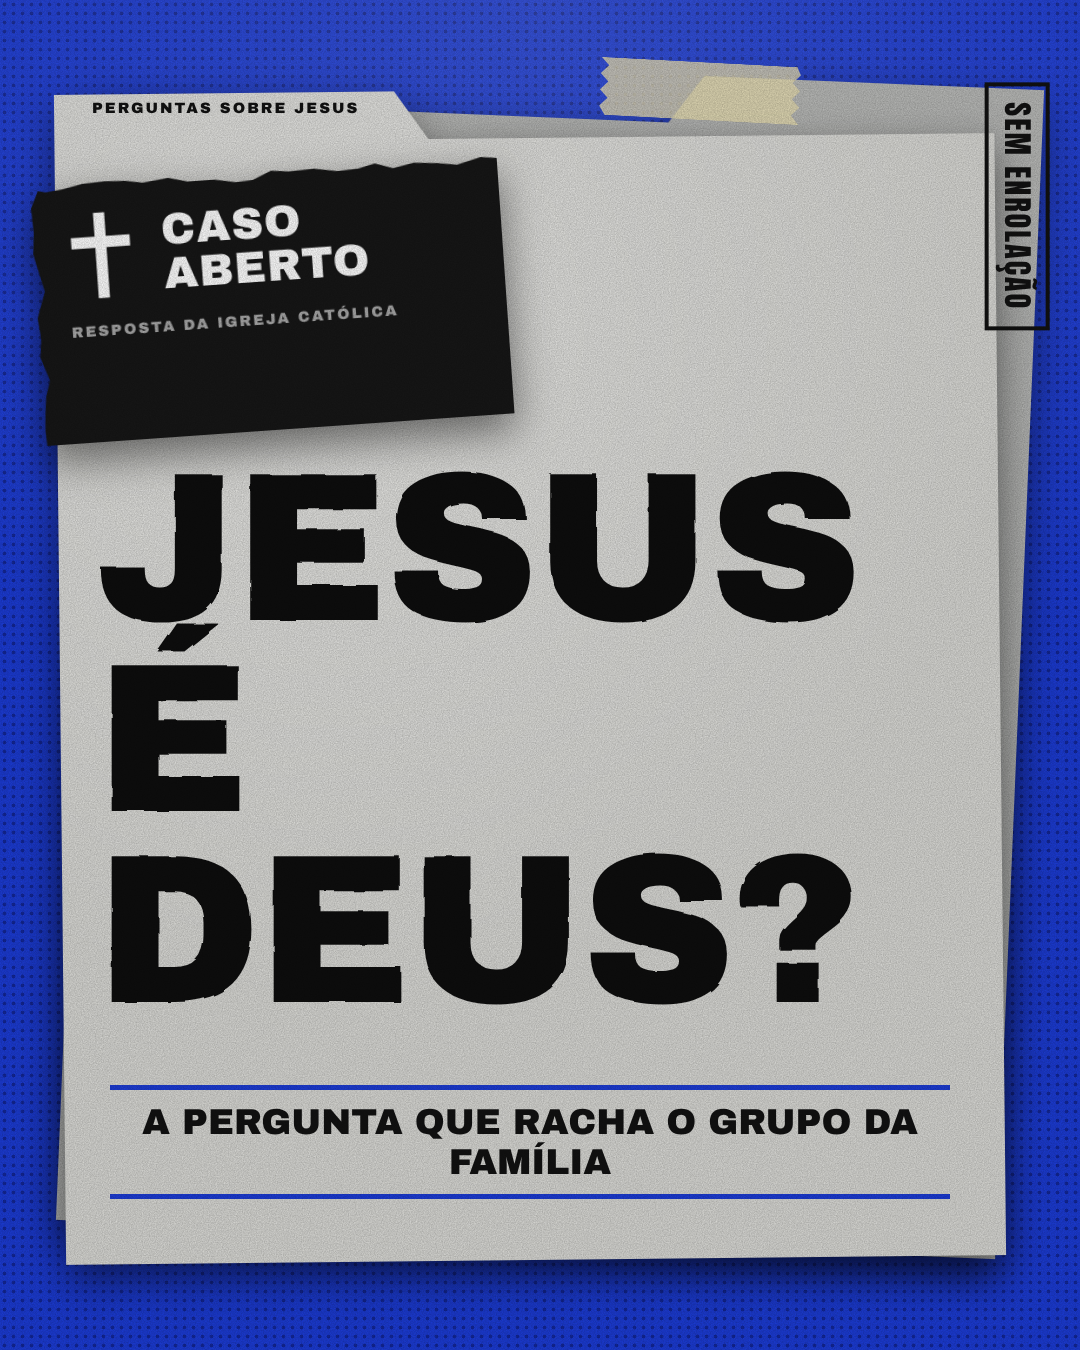
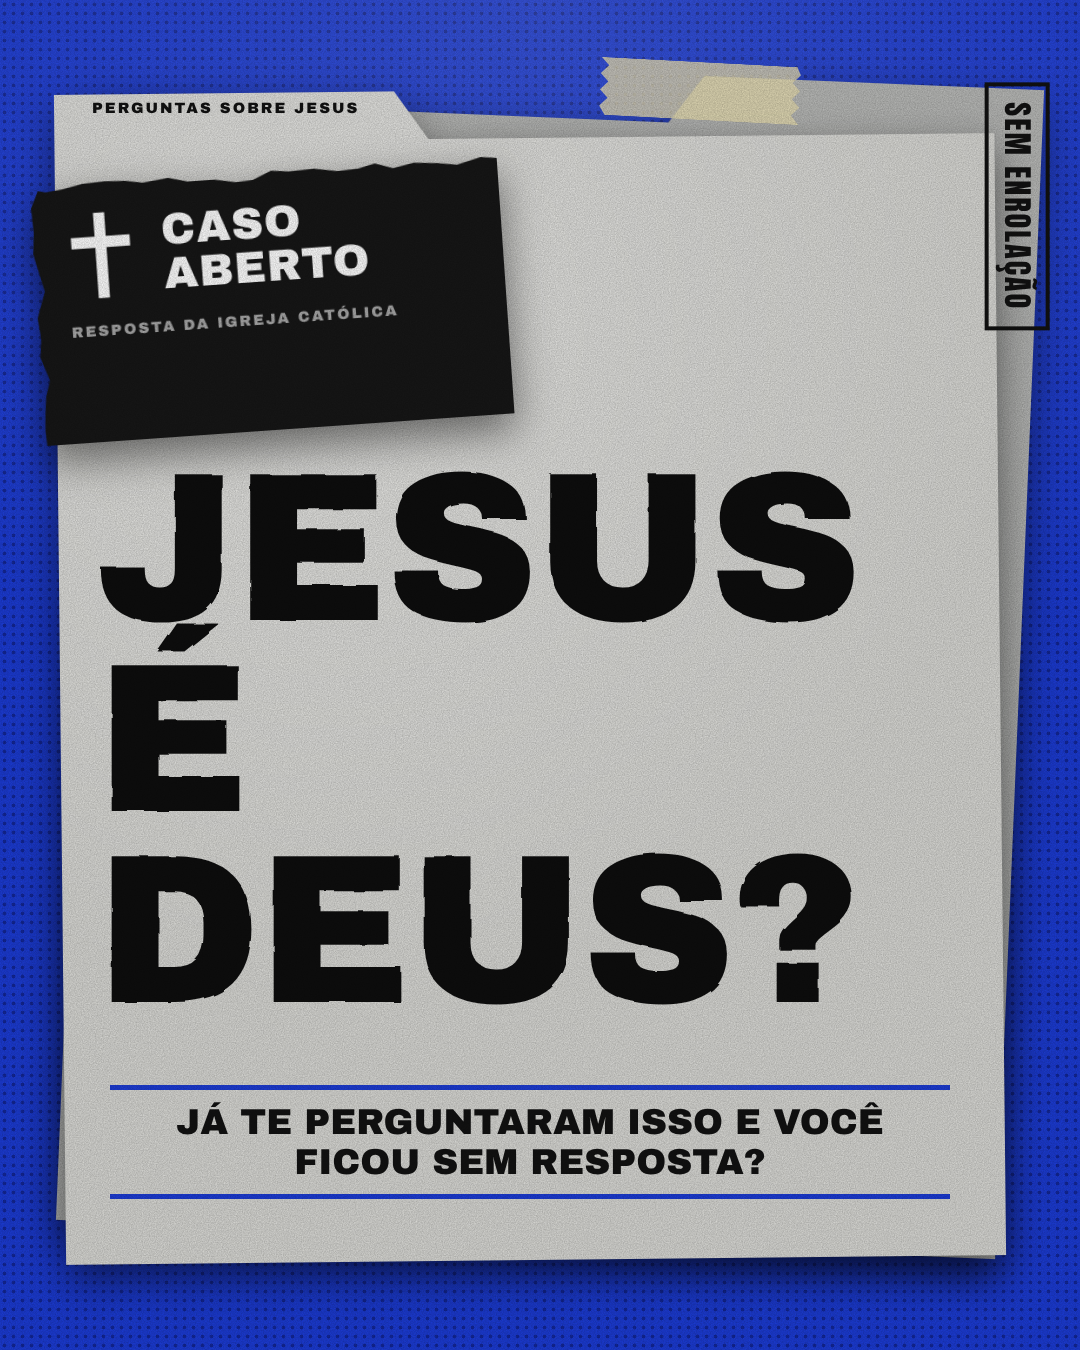
Change post 02 cover hook
Claude-Session: https://claude.ai/code/session_01MihRDu9S7C7FuK2X9gVU2q

Changed region(s): [[0.1222, 0.8089, 0.8556, 0.8711]]

diff --git a/instagram-jesus/post-02/slides.html b/instagram-jesus/post-02/slides.html
@@ -36,7 +36,7 @@
  <div class="abs" style="right:30px;top:330px;transform:rotate(90deg);transform-origin:right top;border:4px solid #111;padding:6px 16px;font-family:'Anton';font-size:30px;letter-spacing:2px;white-space:nowrap">SEM ENROLAÇÃO</div>
  <div class="abs big" style="left:96px;top:455px;font-size:212px;white-space:nowrap">JESUS<br>É<br>DEUS?</div>
  <div class="abs" style="left:110px;right:130px;top:1085px;text-align:center">
-  <div class="lab" style="font-size:36px;border-top:5px solid var(--blue);border-bottom:5px solid var(--blue);padding:12px 0;letter-spacing:0">A pergunta que racha o grupo da família</div></div>
+  <div class="lab" style="font-size:36px;border-top:5px solid var(--blue);border-bottom:5px solid var(--blue);padding:12px 0;letter-spacing:0">Já te perguntaram isso e você ficou sem resposta?</div></div>
  <div class="tape" style="left:600px;top:62px;width:200px;height:58px;transform:rotate(3deg)"></div>
 </div>
 

diff --git a/instagram-jesus/post-02/build.py b/instagram-jesus/post-02/build.py
@@ -73,7 +73,7 @@ html='''<!doctype html><html><head><meta charset="utf-8">
  <div class="abs" style="right:30px;top:330px;transform:rotate(90deg);transform-origin:right top;border:4px solid #111;padding:6px 16px;font-family:'Anton';font-size:30px;letter-spacing:2px;white-space:nowrap">SEM ENROLAÇÃO</div>
  <div class="abs big" style="left:96px;top:455px;font-size:212px;white-space:nowrap">JESUS<br>É<br>DEUS?</div>
  <div class="abs" style="left:110px;right:130px;top:1085px;text-align:center">
-  <div class="lab" style="font-size:36px;border-top:5px solid var(--blue);border-bottom:5px solid var(--blue);padding:12px 0;letter-spacing:0">A pergunta que racha o grupo da família</div></div>
+  <div class="lab" style="font-size:36px;border-top:5px solid var(--blue);border-bottom:5px solid var(--blue);padding:12px 0;letter-spacing:0">Já te perguntaram isso e você ficou sem resposta?</div></div>
  <div class="tape" style="left:600px;top:62px;width:200px;height:58px;transform:rotate(3deg)"></div>
 </div>
 
